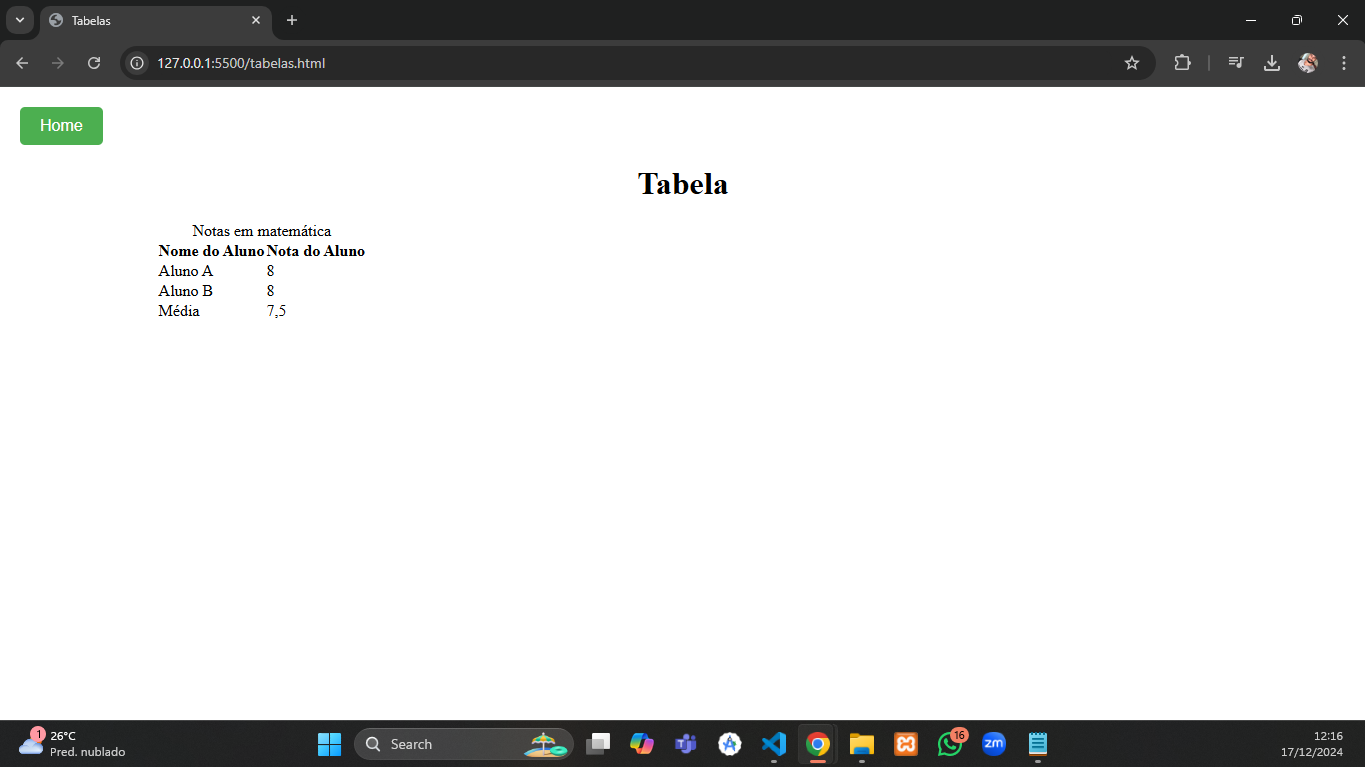
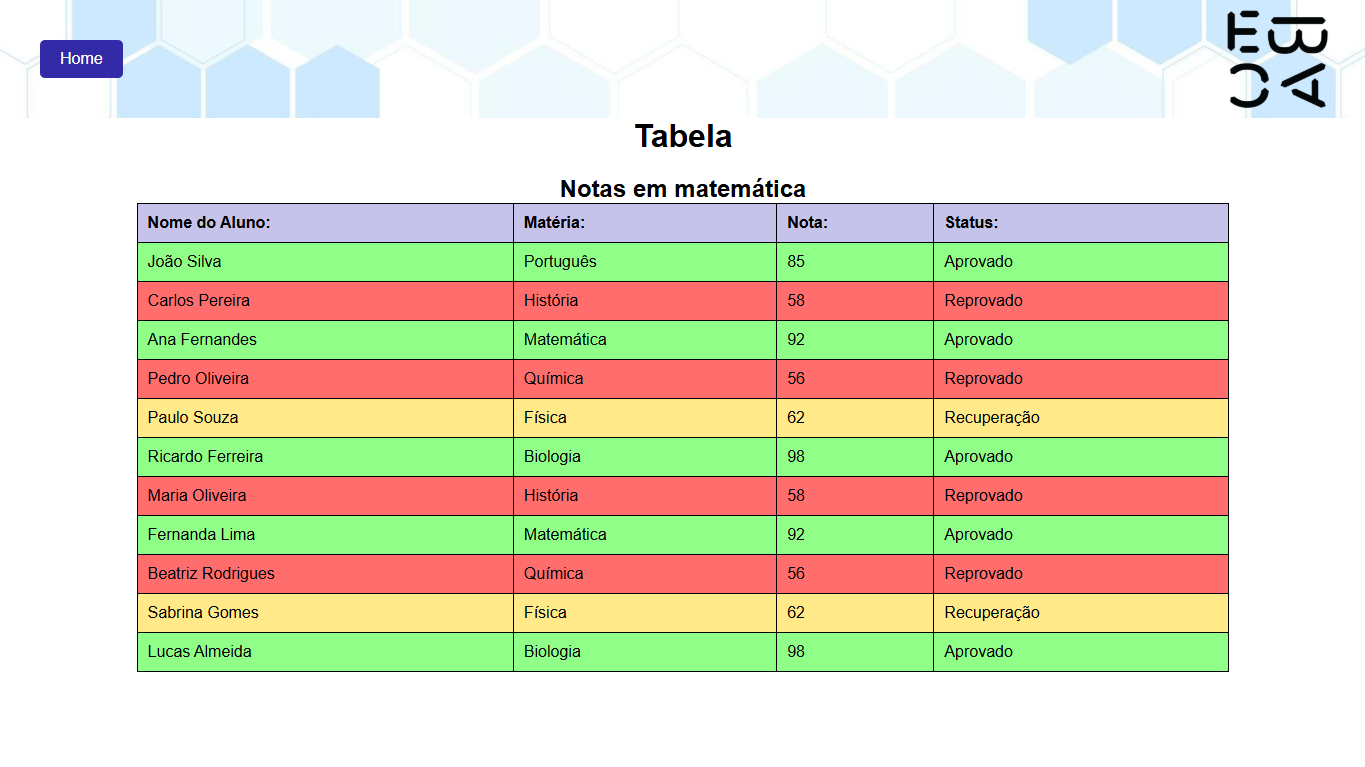
Ajustada a Tabela

diff --git a/tabelas.html b/tabelas.html
@@ -7,40 +7,100 @@
     <link rel="stylesheet" href="/css/tabela.css">
 </head>
 <body>
-    <nav>
-        <div>
-            <button>
-                <a href="index.html">Home</a>
-            </button>
+    <header>
+        <nav>
+            <ul>
+                <li>
+                    <a href="index.html" class="button">Home</a>
+                </li>
+            </ul>
+        </nav>
+        <div class="logo-container">
+            <img src="/midia/ebac-removebg-preview.png" alt="ebac" width="140px">
         </div>
-    </nav>
+    </header>
+
         <h1 style="text-align: center;">Tabela</h1>
-    <div class="container">
         <table>
-            <caption>Notas em matemática</caption>
+            <caption><h2>Notas em matemática</h2></caption>
             <thead>
                 <tr>
-                    <th>Nome do Aluno</th>
-                    <th>Nota do Aluno</th>
+                    <th>Nome do Aluno:</th>
+                    <th>Matéria:</th>
+                    <th>Nota:</th>
+                    <th>Status:</th>
                 </tr>
             </thead>
             <tbody>
-                <tr>
-                    <td>Aluno A</td>
-                    <td>8</td>
+                <tr class="aprovado">
+                    <td>João Silva</td>
+                    <td>Português</td>
+                    <td>85</td>
+                    <td>Aprovado</td>
                 </tr>
-                <tr>
-                    <td>Aluno B</td>
-                    <td>8</td>
+                <tr class="reprovado">
+                    <td>Carlos Pereira</td>
+                    <td>História</td>
+                    <td>58</td>
+                    <td>Reprovado</td>
                 </tr>
+                <tr class="aprovado">
+                    <td>Ana Fernandes</td>
+                    <td>Matemática</td>
+                    <td>92</td>
+                    <td>Aprovado</td>
+                </tr>
+                <tr class="reprovado">
+                    <td>Pedro Oliveira</td>
+                    <td>Química</td>
+                    <td>56</td>
+                    <td>Reprovado</td>
+                </tr>
+
+                <tr class="recuperacao">
+                    <td>Paulo Souza</td>
+                    <td>Física</td>
+                    <td>62</td>
+                    <td>Recuperação</td>
+                </tr>
+                <tr class="aprovado">
+                    <td>Ricardo Ferreira</td>
+                    <td>Biologia</td>
+                    <td>98</td>
+                    <td>Aprovado</td>
+                </tr>
+                <tr class="reprovado">
+                    <td>Maria Oliveira</td>
+                    <td>História</td>
+                    <td>58</td>
+                    <td>Reprovado</td>
+                </tr>
+                <tr class="aprovado">
+                    <td>Fernanda Lima</td>
+                    <td>Matemática</td>
+                    <td>92</td>
+                    <td>Aprovado</td>
+                </tr>
+                <tr class="reprovado">
+                    <td>Beatriz Rodrigues</td>
+                    <td>Química</td>
+                    <td>56</td>
+                    <td>Reprovado</td>
+                </tr>
+
+                <tr class="recuperacao">
+                    <td>Sabrina Gomes</td>
+                    <td>Física</td>
+                    <td>62</td>
+                    <td>Recuperação</td>
+                </tr>
+                <tr class="aprovado">
+                    <td>Lucas Almeida</td>
+                    <td>Biologia</td>
+                    <td>98</td>
+                    <td>Aprovado</td>
+                </tr>        
             </tbody>
-            <tfoot>
-                <tr>
-                    <td>Média</td>
-                    <td>7,5</td>
-                </tr>
-            </tfoot>
         </table>
-    </div>
 </body>
 </html>

diff --git a/css/tabela.css b/css/tabela.css
@@ -1,7 +1,11 @@
 * {
     box-sizing: border-box;
-    margin: 0px;
-    padding: 0px;
+    margin: 0;
+    padding: 0;
+}
+
+body {
+    font-family: Arial, Helvetica, sans-serif;
 }
 
 a {
@@ -9,7 +13,8 @@ a {
     text-decoration: none;
 }
 
-button {
+
+.button {
     background-color: #322aa6;
     color: white;
     border: none;
@@ -20,29 +25,78 @@ button {
     transition: background-color 0.3s ease;
     display: inline-block;
     margin: 20px;
+    text-decoration: none; 
 }
 
-button:hover {
+.button:hover {
     background-color: #45a049;
 }
 
-button:focus {
+.button:focus {
     outline: none;
     box-shadow: 0 0 5px 2px rgba(0, 128, 0, 0.6);
 }
 
-button a {
-    color: white;
-    text-decoration: none;
-}
 
-button:disabled {
-    background-color: #ddd;
-    cursor: not-allowed;
-}
-
-.container {
-    width: 80%;
-    margin: 0 auto;
+header {
+    background-image: url(/midia/azul-e-branco-tecnologia-abstrata-fundo-com-hexagonos-vetor.jpg);
+    background-size: cover;
+    background-position: center;
+    background-repeat: no-repeat;
+    display: flex;
+    justify-content: space-between;
+    align-items: center;
     padding: 20px;
+}
+
+header .logo-container {
+    display: flex;
+    position: absolute;
+    right: 20px;
+}
+
+header li {
+    display: inline;
+}
+
+header img {
+    max-width: 230px;
+    height: auto;
+    
+}
+
+table {
+    width: 80%;
+    margin: 20px auto;
+    border-collapse: collapse;
+    text-align: left;
+    font-family: arial, sans-serif;
+    font-size: 16px;
+    margin-top: 20px;
+    margin-bottom: 50px;
+}
+
+thead tr {
+    background-color: #c5c3e9;
+}
+
+th, td {
+    padding: 10px;
+    border: 1px solid black;
+}
+
+.highlight{
+    background-color: #c5c3e9;
+}
+
+.aprovado {
+    background-color: rgb(144, 255, 136);
+}
+
+.reprovado {
+    background-color: rgb(255, 109, 109);
+}
+
+.recuperacao{
+    background-color: rgb(255, 233, 136);
 }

diff --git a/index.html b/index.html
@@ -69,17 +69,15 @@
           <a href="/containers.html">
             <img src="/midia/print-container.png" alt="carros-wec" class="img-fluid" style="height: 300px; border-radius: 10px; object-fit: cover;">
           </a>
-        </article>
-
-<!--Vou melhorar as TABELAS-->  
+        </article> 
       
-    <!--<article class="col-12 col-md-6 mb-4">
+    <article class="col-12 col-md-6 mb-4">
             <h3>Projeto Exercício de Tabela</h3>
             <p>- Projeto Realizado Na EBAC</p>
             <a href="/tabelas.html">
               <img src="/midia/print-tabela.png" alt="tabela" class="img-fluid" style="height: 300px; object-fit: cover;">
             </a>
-          </article>-->
+          </article>
       </div>
     </div>
 
